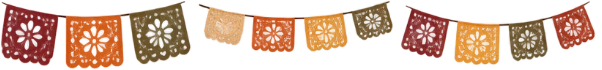
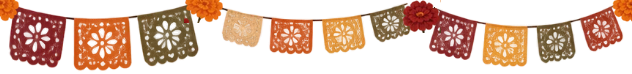
tienda: skin muertos — papel picado conectado con hilo y flores en las uniones; murciélagos completos con vuelo y aleteo coherentes

diff --git a/src/styles/skinMuertos.css b/src/styles/skinMuertos.css
@@ -10,8 +10,8 @@
 
 /* ---- papel picado colgando de la barra superior ---- */
 .skin-muertos .v2-topbar::after {
-  content: ''; position: absolute; left: -6px; right: -6px; top: 100%; height: 44px;
-  background: url('/skins/muertos/papel-picado.png') repeat-x 0 0 / auto 44px;
+  content: ''; position: absolute; left: -6px; right: -6px; top: 100%; height: 46px;
+  background: url('/skins/muertos/papel-picado.png') repeat-x 0 0 / auto 46px;
   pointer-events: none; transform-origin: top center;
   animation: skin-balanceo 6s ease-in-out infinite alternate;
 }
@@ -29,14 +29,27 @@
 .skin-fantasma { right: 8px; bottom: calc(var(--skin-tabbar, 68px) + 4px); width: 42px; animation: skin-flota 3.6s ease-in-out infinite alternate; }
 @keyframes skin-flota { from { transform: translateY(0) rotate(-3deg); } to { transform: translateY(-9px) rotate(3deg); } }
 
-.skin-murcielago { top: 128px; left: -60px; width: 42px; opacity: .9; animation: skin-vuelo 24s linear infinite; }
-.skin-murcielago-2 { top: 190px; width: 28px; animation-duration: 31s; animation-delay: -12s; }
-@keyframes skin-vuelo {
-  0%   { transform: translate(0, 0); }
-  25%  { transform: translate(120px, -14px); }
-  50%  { transform: translate(260px, 10px); }
-  75%  { transform: translate(400px, -8px); }
-  100% { transform: translate(560px, 0); }
+/* Murciélagos: el contenedor recorre la pantalla y se inclina según sube o baja; la imagen aletea. */
+.skin-vuelo { position: absolute; top: 132px; width: 44px; }
+.skin-vuelo img { display: block; width: 100%; height: auto; transform-origin: 50% 65%; animation: skin-aleteo .45s ease-in-out infinite alternate; }
+@keyframes skin-aleteo { from { transform: scaleY(1); } to { transform: scaleY(.7); } }
+.skin-vuelo-ida { left: -60px; animation: skin-ida 26s linear infinite; }
+.skin-vuelo-vuelta { left: calc(100% + 40px); top: 210px; width: 32px; animation: skin-vuelta 34s linear infinite; animation-delay: -14s; }
+@keyframes skin-ida {
+  0%   { transform: translate(0, 0) rotate(-8deg); }
+  20%  { transform: translate(120px, -22px) rotate(8deg); }
+  40%  { transform: translate(240px, 6px) rotate(-8deg); }
+  60%  { transform: translate(360px, -20px) rotate(8deg); }
+  80%  { transform: translate(480px, 8px) rotate(-6deg); }
+  100% { transform: translate(600px, -10px) rotate(0deg); }
+}
+@keyframes skin-vuelta {
+  0%   { transform: translate(0, 0) rotate(8deg); }
+  20%  { transform: translate(-120px, -18px) rotate(-8deg); }
+  40%  { transform: translate(-240px, 8px) rotate(8deg); }
+  60%  { transform: translate(-360px, -16px) rotate(-8deg); }
+  80%  { transform: translate(-480px, 6px) rotate(6deg); }
+  100% { transform: translate(-600px, -8px) rotate(0deg); }
 }
 
 /* ---- barra inferior con un filo de cempasúchil ---- */
@@ -54,6 +67,6 @@
 .skin-muertos .v2-banda-rojo::before { background-image: url('/skins/muertos/gallina-esqueleto.png'); }
 
 @media (prefers-reduced-motion: reduce) {
-  .skin-muertos .v2-topbar::after, .skin-fantasma, .skin-murcielago { animation: none; }
-  .skin-murcielago { display: none; }
+  .skin-muertos .v2-topbar::after, .skin-fantasma { animation: none; }
+  .skin-vuelo { display: none; }
 }

diff --git a/src/Components/SkinMuertos.jsx b/src/Components/SkinMuertos.jsx
@@ -13,8 +13,6 @@ const ADORNOS = [
   { n: 'hoja-2', clase: 'skin-adorno skin-hoja-medio' },
   { n: 'calabazas', clase: 'skin-adorno skin-calabazas' },
   { n: 'fantasma-2', clase: 'skin-adorno skin-fantasma' },
-  { n: 'murcielago-1', clase: 'skin-adorno skin-murcielago' },
-  { n: 'murcielago-3', clase: 'skin-adorno skin-murcielago skin-murcielago-2' },
 ]
 
 export default function SkinMuertos() {
@@ -34,6 +32,9 @@ export default function SkinMuertos() {
   return (
     <div className="skin-capa" ref={capa} aria-hidden="true">
       {ADORNOS.map(a => <img key={a.n} className={a.clase} src={img(a.n)} alt="" draggable="false" />)}
+      {/* murciélagos: cada uno vuela en una dirección y se inclina según sube o baja; el aleteo va en la imagen */}
+      <span className="skin-vuelo skin-vuelo-ida"><img src={img('murcielago-2')} alt="" draggable="false" /></span>
+      <span className="skin-vuelo skin-vuelo-vuelta"><img src={img('murcielago-1')} alt="" draggable="false" /></span>
     </div>
   )
 }
